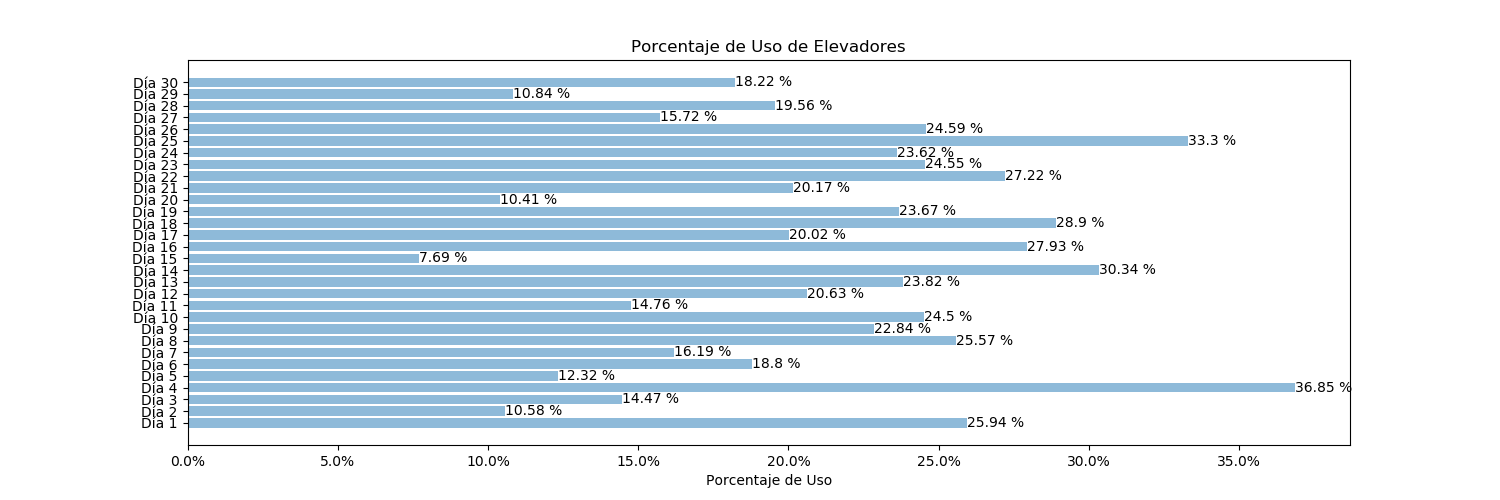
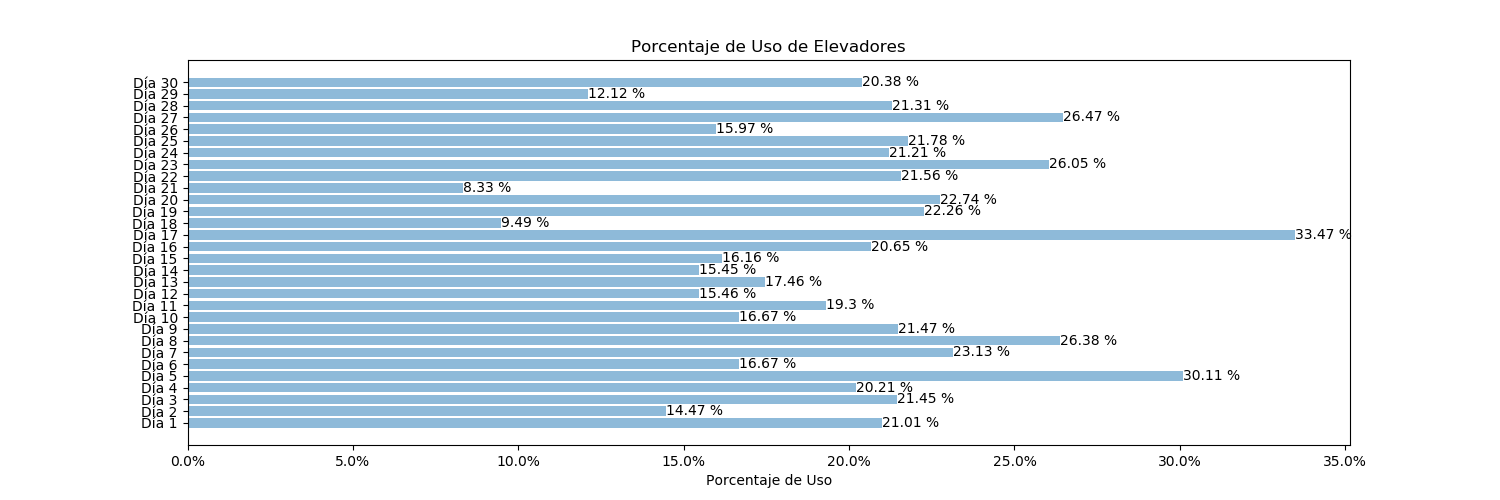
merge

diff --git a/main.py b/main.py
@@ -172,6 +172,17 @@ def procesar_evento(un_evento, taller, reloj, cola_eventos): # tambien puede lla
         else:
             taller.finalizar_reparacion(reparacion)
             taller.egresar_vehiculo(reparacion.get_vehiculo())
+        
+        # INICIO DATOS GRAFICO MECANICO
+        dias_horas = calcular_dias_transcurridos(reloj) - 1
+        vehiculo = reparacion.get_vehiculo()
+        horas_reparacion = vehiculo.get_tiempo_reparacion()
+        mecanico = reparacion.get_mecanico()
+        
+        mecanico.set_valor_arreglo(dias_horas,horas_reparacion)
+
+        #FIN GRAFICO
+        
         #Tomo otro auto y creo nuevo evento de reparacion
         vehiculo = taller.get_vehiculo_libre()
         if vehiculo:
@@ -262,6 +273,7 @@ def main(controlador_simulacion, pantalla,cantidad_elevadores,cantidad_mecanicos
         #QtTest.QTest.qWait(1000)
     #Aca hariamos calculos para armar el grafico 
     controlador_simulacion.set_elevadores(taller.get_elevadores())
+    controlador_simulacion.set_mecanicos(taller.get_mecanicos())
     #controlador_simulacion.mostrar_graficos()
     #controlador_simulacion.mostrarTodosLosGraficos()
     print("Termine la simulación")

diff --git a/modelo/Taller.py b/modelo/Taller.py
@@ -10,15 +10,15 @@ class Taller:
     """
     Clase que representa el taller
     """
-    def __init__(self, dias_elevador, cantidad_mecanicos=3, cantidad_elevadores=3, reparaciones=[]):
+    def __init__(self, dias_simulacion, cantidad_mecanicos=3, cantidad_elevadores=3, reparaciones=[]):
         
         self.mecanicos = []
         for i in range (cantidad_mecanicos):
-            self.mecanicos.append(Mecanico())
+            self.mecanicos.append(Mecanico(dias_simulacion))
 
         self.elevadores = []
         for i in range(cantidad_elevadores):
-            self.elevadores.append(Elevador(dias_elevador))
+            self.elevadores.append(Elevador(dias_simulacion))
 
         self.galpon = Galpon(10)
 
@@ -107,3 +107,6 @@ class Taller:
 
     def get_elevadores(self):
         return self.elevadores
+    
+    def get_mecanicos(self):
+        return self.mecanicos

diff --git a/controladores/controlador_graficos.py b/controladores/controlador_graficos.py
@@ -22,7 +22,7 @@ class ControladorGraficos(QDialog):
         self.prueba()
         self.mostrarGraficoUno()
         self.mostrarGraficoDos()
-        #self.mostrarGraficoTres()
+        self.mostrarGraficoTres()
 
     def comenzar_simulacion(self):
         try:
@@ -185,6 +185,11 @@ class ControladorGraficos(QDialog):
         ocupado = np.array([38, 17, 26, 19, 15])
         desocupado = np.array([62, 83, 74, 81, 85])
 
+        for mecanico in self.mecanicos:
+            print(str(mecanico.get_tiempo_uso_dia()))
+
+        
+
         #calculo porcentajes
         total = ocupado + desocupado
         proportion_ocupado = np.true_divide(ocupado, total) * 100
@@ -218,3 +223,5 @@ class ControladorGraficos(QDialog):
         plt.savefig('fig3.png')
 
         self.pantalla_graficos.grafico_tres_label.setPixmap(QPixmap("fig3.png"))
+        
+        

diff --git a/modelo/Mecanico.py b/modelo/Mecanico.py
@@ -2,13 +2,20 @@ class Mecanico:
     """
     Clase que representa el mecanico
     """
-    def __init__(self):
+    def __init__(self,dias):
         self.disponible = True
-        self.tiempo_uso_dia = []
-
+        self.dias = dias
+        self.tiempo_uso_dia = [0] * self.dias
+        
 
     def get_disponible(self):
     	return self.disponible
 
     def set_disponible(self, disponibilidad):
     	self.disponible = disponibilidad
+    
+    def get_tiempo_uso_dia(self):
+        return self.tiempo_uso_dia
+
+    def set_valor_arreglo(self,dia,valor):
+        self.tiempo_uso_dia[dia] += valor
